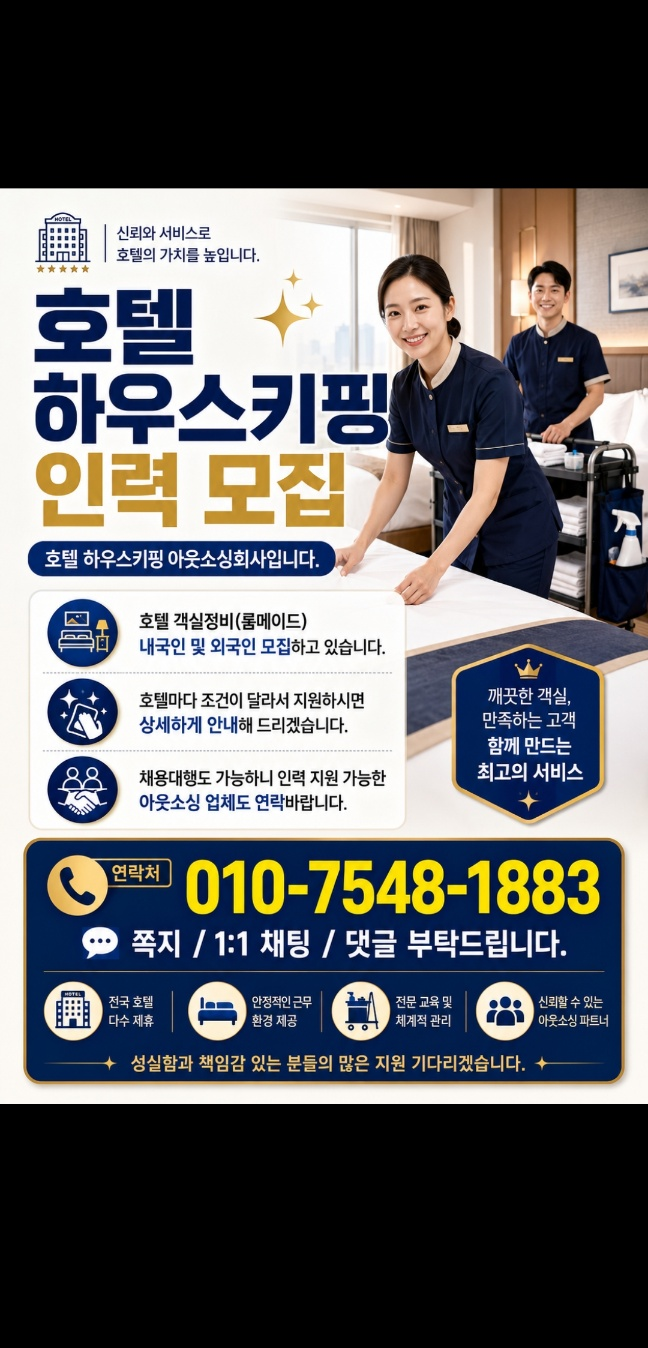
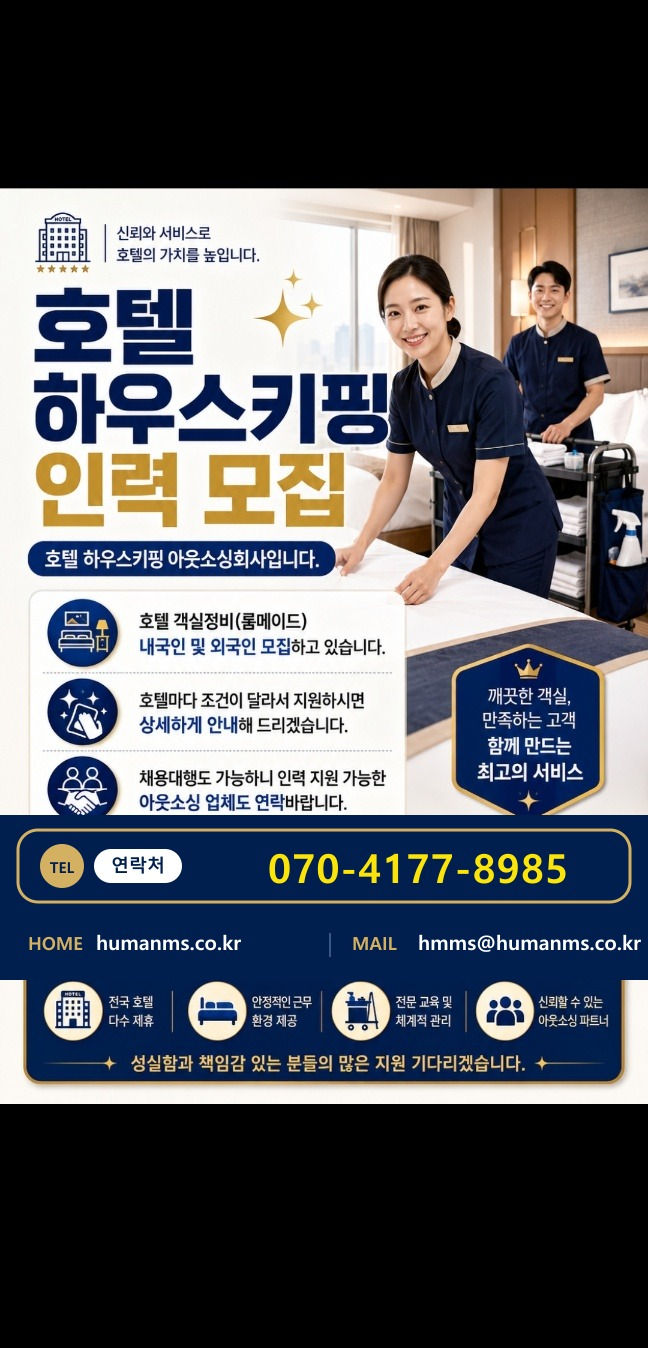
채용 광고 이미지 편집 + 팝업 이미지 전체 노출
이미지 편집 (images/housekeeping-recruit.jpg):
- 전화번호 010-7548-1883 → 070-4177-8985 로 교체
- "쪽지/1:1 채팅/댓글 부탁드립니다" 라인 →
  "HOME humanms.co.kr | MAIL hmms@humanms.co.kr" 로 교체
- 원본 상단(호텔 이미지 + 제목 + 3개 배지)과 하단(4개 아이콘 +
  성실함과 책임감 문구)은 그대로 유지
- Node sharp + SVG composite로 y=815~980 구간만 정밀 오버레이
  · 네이비 배경 #001E4E 동일 매칭
  · 금색 테두리 박스 + "TEL" 원형 아이콘 + "연락처" 흰 pill 재현
  · 새 번호 밝은 골드 #FBE40C 로 원본 스타일 유지

팝업 CSS (4개 파일 index/company/business/contact):
- .promo-link img: height 260px cover crop → height auto (자연 비율)
- 모바일: height 180px 제거 → 자연 비율로 전체 표시
- 결과: 이미지가 잘리지 않고 전체 노출, CTA는 이미지 아래
- 데스크톱 팝업 220x528 (이미지 220x458 + 드래그 26 + CTA 40)
- 이미지 새 연락처(전화·홈페이지·이메일)가 완전히 보임

Changed region(s): [[0.0, 0.592, 1.0, 0.7478]]

diff --git a/business.html b/business.html
@@ -681,11 +681,8 @@ ul { margin: 0; padding: 0; }
 .promo-close:hover { background: rgba(0,0,0,0.95); }
 .promo-close:focus { outline: 2px solid #ffffff; outline-offset: -2px; }
 .promo-link { display: block; color: inherit; text-decoration: none; cursor: pointer; margin-top: 26px; }
-.promo-link img {
-  display: block; width: 100%;
-  height: 260px;
-  object-fit: cover; object-position: top center;
-}
+/* 이미지 전체가 보이도록 자연 비율로 표시 (crop 없음) */
+.promo-link img { display: block; width: 100%; height: auto; }
 .promo-cta {
   display: block;
   padding: 10px 12px;
@@ -697,14 +694,13 @@ ul { margin: 0; padding: 0; }
   letter-spacing: -0.3px;
 }
 .promo-link:hover .promo-cta { background: #0f57b8; }
-/* 모바일: 폭·이미지·핸들 축소 (콘텐츠 침범 최소화) */
+/* 모바일: 폭·핸들만 축소 (이미지는 자연 비율로 전체 노출) */
 @media screen and (max-width: 640px) {
   .promo-popup { top: 76px; right: 10px; width: 160px; }
   .promo-drag { height: 22px; right: 32px; line-height: 22px; font-size: 10px; }
   .promo-drag:before { content: "⋮⋮ 이동 ⋮⋮"; }
   .promo-close { width: 32px; height: 22px; font-size: 16px; line-height: 20px; }
   .promo-link { margin-top: 22px; }
-  .promo-link img { height: 180px; }
   .promo-cta { padding: 8px 6px; font-size: 12px; }
 }
 

diff --git a/company.html b/company.html
@@ -681,11 +681,8 @@ ul { margin: 0; padding: 0; }
 .promo-close:hover { background: rgba(0,0,0,0.95); }
 .promo-close:focus { outline: 2px solid #ffffff; outline-offset: -2px; }
 .promo-link { display: block; color: inherit; text-decoration: none; cursor: pointer; margin-top: 26px; }
-.promo-link img {
-  display: block; width: 100%;
-  height: 260px;
-  object-fit: cover; object-position: top center;
-}
+/* 이미지 전체가 보이도록 자연 비율로 표시 (crop 없음) */
+.promo-link img { display: block; width: 100%; height: auto; }
 .promo-cta {
   display: block;
   padding: 10px 12px;
@@ -697,14 +694,13 @@ ul { margin: 0; padding: 0; }
   letter-spacing: -0.3px;
 }
 .promo-link:hover .promo-cta { background: #0f57b8; }
-/* 모바일: 폭·이미지·핸들 축소 (콘텐츠 침범 최소화) */
+/* 모바일: 폭·핸들만 축소 (이미지는 자연 비율로 전체 노출) */
 @media screen and (max-width: 640px) {
   .promo-popup { top: 76px; right: 10px; width: 160px; }
   .promo-drag { height: 22px; right: 32px; line-height: 22px; font-size: 10px; }
   .promo-drag:before { content: "⋮⋮ 이동 ⋮⋮"; }
   .promo-close { width: 32px; height: 22px; font-size: 16px; line-height: 20px; }
   .promo-link { margin-top: 22px; }
-  .promo-link img { height: 180px; }
   .promo-cta { padding: 8px 6px; font-size: 12px; }
 }
 

diff --git a/contact.html b/contact.html
@@ -851,11 +851,8 @@ ul { margin: 0; padding: 0; }
 .promo-close:hover { background: rgba(0,0,0,0.95); }
 .promo-close:focus { outline: 2px solid #ffffff; outline-offset: -2px; }
 .promo-link { display: block; color: inherit; text-decoration: none; cursor: pointer; margin-top: 26px; }
-.promo-link img {
-  display: block; width: 100%;
-  height: 260px;
-  object-fit: cover; object-position: top center;
-}
+/* 이미지 전체가 보이도록 자연 비율로 표시 (crop 없음) */
+.promo-link img { display: block; width: 100%; height: auto; }
 .promo-cta {
   display: block;
   padding: 10px 12px;
@@ -867,14 +864,13 @@ ul { margin: 0; padding: 0; }
   letter-spacing: -0.3px;
 }
 .promo-link:hover .promo-cta { background: #0f57b8; }
-/* 모바일: 폭·이미지·핸들 축소 (콘텐츠 침범 최소화) */
+/* 모바일: 폭·핸들만 축소 (이미지는 자연 비율로 전체 노출) */
 @media screen and (max-width: 640px) {
   .promo-popup { top: 76px; right: 10px; width: 160px; }
   .promo-drag { height: 22px; right: 32px; line-height: 22px; font-size: 10px; }
   .promo-drag:before { content: "⋮⋮ 이동 ⋮⋮"; }
   .promo-close { width: 32px; height: 22px; font-size: 16px; line-height: 20px; }
   .promo-link { margin-top: 22px; }
-  .promo-link img { height: 180px; }
   .promo-cta { padding: 8px 6px; font-size: 12px; }
 }
 

diff --git a/index.html b/index.html
@@ -794,11 +794,8 @@ ul { margin: 0; padding: 0; }
 .promo-close:hover { background: rgba(0,0,0,0.95); }
 .promo-close:focus { outline: 2px solid #ffffff; outline-offset: -2px; }
 .promo-link { display: block; color: inherit; text-decoration: none; cursor: pointer; margin-top: 26px; }
-.promo-link img {
-  display: block; width: 100%;
-  height: 260px;
-  object-fit: cover; object-position: top center;
-}
+/* 이미지 전체가 보이도록 자연 비율로 표시 (crop 없음) */
+.promo-link img { display: block; width: 100%; height: auto; }
 .promo-cta {
   display: block;
   padding: 10px 12px;
@@ -810,14 +807,13 @@ ul { margin: 0; padding: 0; }
   letter-spacing: -0.3px;
 }
 .promo-link:hover .promo-cta { background: #0f57b8; }
-/* 모바일: 폭·이미지·핸들 축소 (콘텐츠 침범 최소화) */
+/* 모바일: 폭·핸들만 축소 (이미지는 자연 비율로 전체 노출) */
 @media screen and (max-width: 640px) {
   .promo-popup { top: 76px; right: 10px; width: 160px; }
   .promo-drag { height: 22px; right: 32px; line-height: 22px; font-size: 10px; }
   .promo-drag:before { content: "⋮⋮ 이동 ⋮⋮"; }
   .promo-close { width: 32px; height: 22px; font-size: 16px; line-height: 20px; }
   .promo-link { margin-top: 22px; }
-  .promo-link img { height: 180px; }
   .promo-cta { padding: 8px 6px; font-size: 12px; }
 }
 
